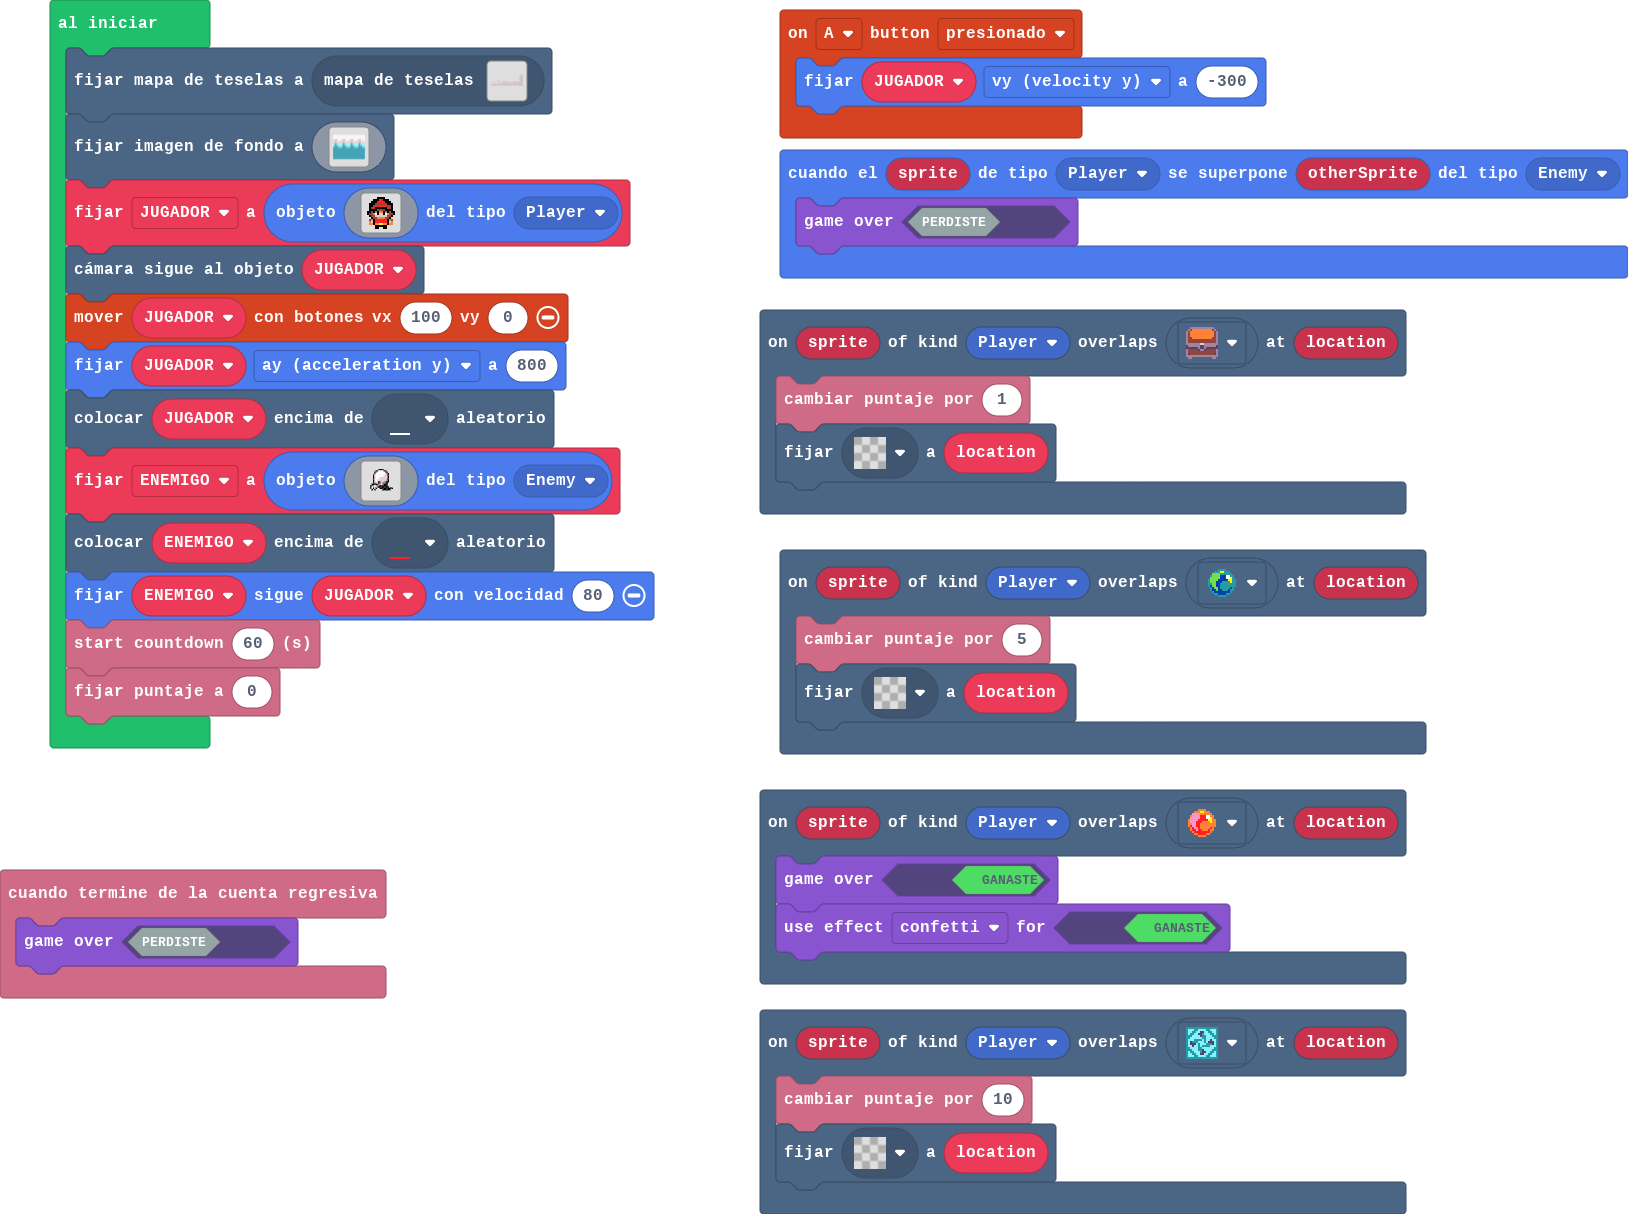
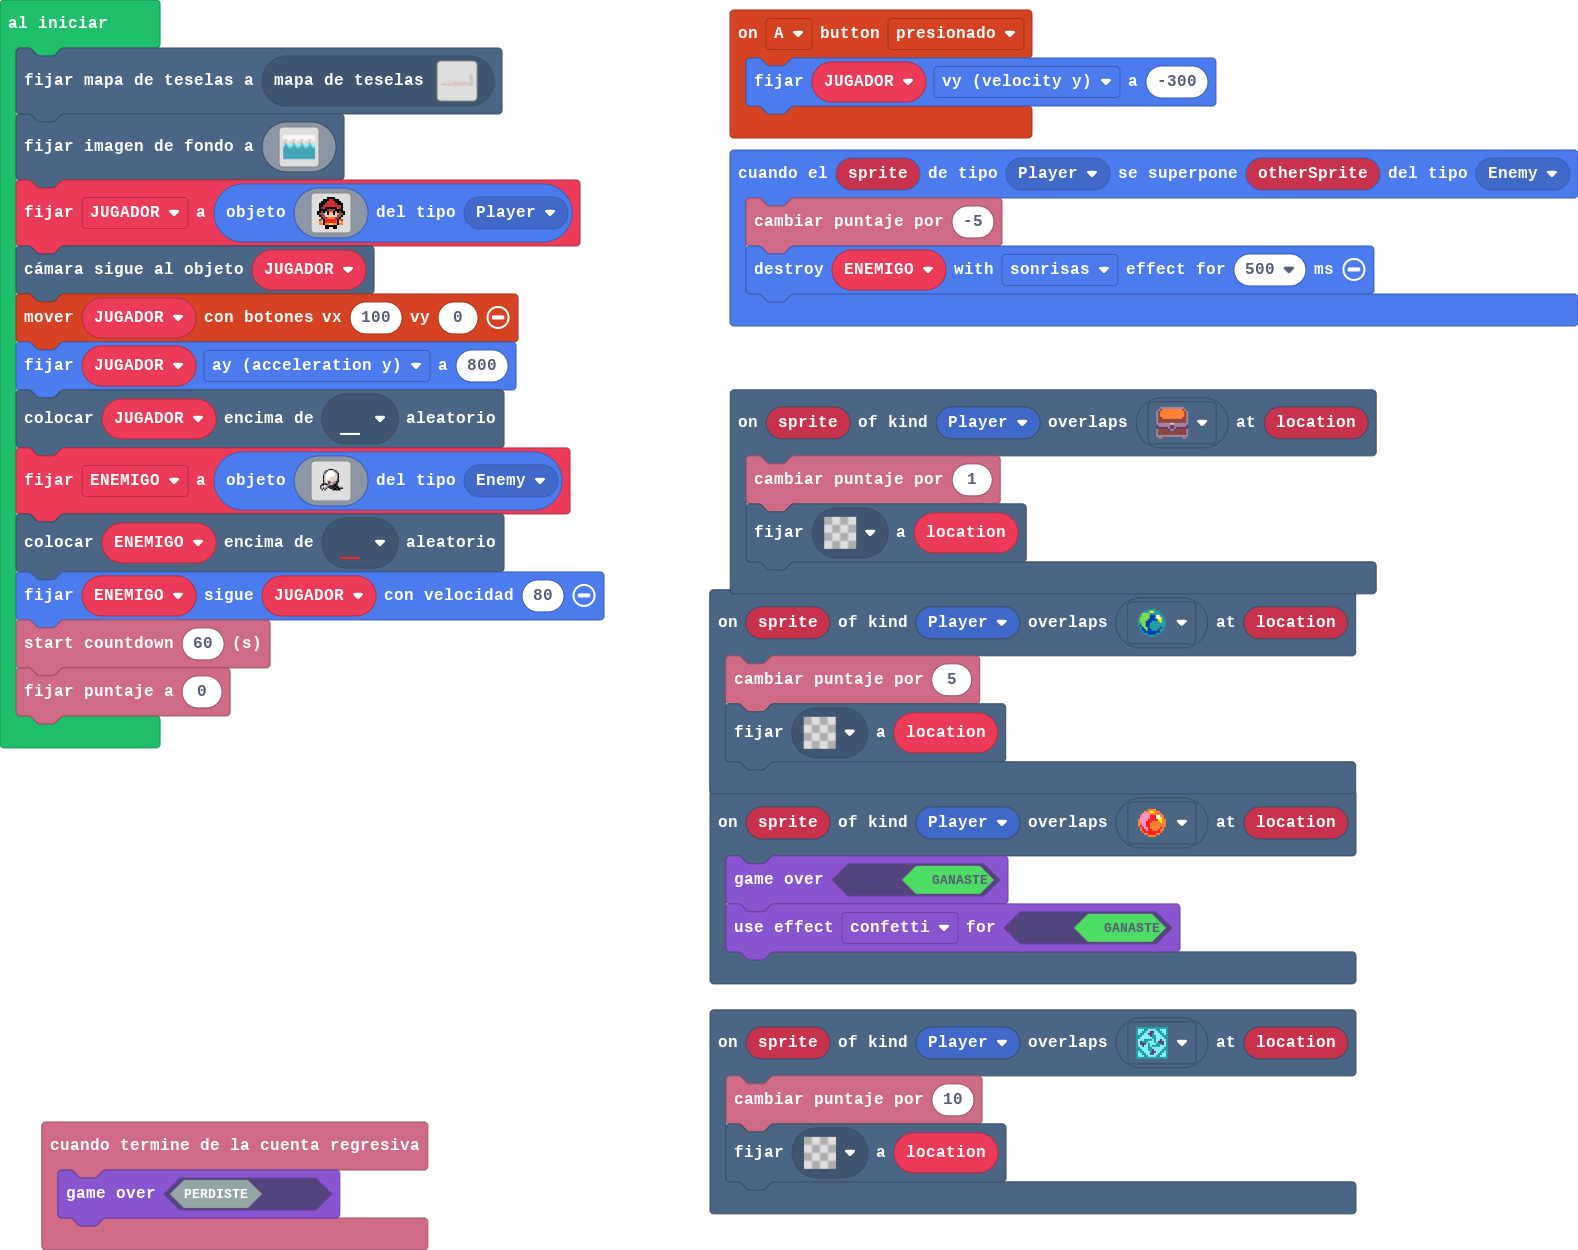
El enemigo ahora en vez de eliminarte te quita 10 puntos y ahora puede aparecer en mas sitios

diff --git a/tilemap.g.ts b/tilemap.g.ts
@@ -12,7 +12,7 @@ namespace myTiles {
     helpers._registerFactory("tilemap", function(name: string) {
         switch(helpers.stringTrim(name)) {
             case "nivel1":
[2 lines of base64/hex data omitted]
 ......................................................................................................................................2222222222222222
 ......................................................................................................................................2222222222222222
 ......................................................................................................................................2222222222222222
@@ -46,12 +46,12 @@ namespace myTiles {
 ....................22.........222222.........................22222222222222........................................................222222222222222222
 ...............................2.......................22222222222222222222222...............................22222222222...........2222222222222222222
 .............22222.............2.......2..........222..2222222222222222222222222222222222...................22222222222222.........2222222222222222222
-.............2.................2...............2.......22222222222222222222222222222222222.................2222222222222222222222222222222222222222222
-.............2.................2..........22...........22222222222222222222222222222222222.......222222...22222222222222222222222222222222222222222222
-.............22222.............2.........222...........22222222222222222222222222222222222.......22222222222222222222222222222222222222222222222222222
-...............................2........2222...........22222222222222222222222222222222222222222222222222222222222222222222222222222222222222222222222
-...................2................22.....2...........22222222222222222222222222222222222222222222222222222222222222222222222222222222222222222222222
-...........................................2...........22222222222222222222222222222222222222222222222222222222222222222222222222222222222222222222222
+.............2.................2...............2.......2222222222.....22222222222222222222.................2222222222222222222222222222222222222222222
+.............2.................2..........22...........222222222......22222222222222222222.......222222...22222222222222222222222222222222222222222222
+.............22222.............2.........222...........222222.....222222222222222222222222.......22222222222222222222222222222222222222222222222222222
+...............................2........2222...........22222......222222222222222222222222222222222222222222222222222222222222222222222222222222222222
+...................2................22.....2..................2222222222222222222222222222222222222222222222222222222222222222222222222222222222222222
+...........................................2.................22222222222222222222222222222222222222222222222222222222222222222222222222222222222222222
 ..................222222222222222222222222222222222222222222222222222222222222222222222222222222222222222222222222222222222222222222222222222222222222
 ...............222222222222222222222222222222222222222222222222222222222222222222222222222222222222222222222222222222222222222222222222222222222222222
 222222222222222222222222222222222222222222222222222222222222222222222222222222222222222222222222222222222222222222222222222222222222222222222222222222

diff --git a/main.ts b/main.ts
@@ -21,8 +21,10 @@ scene.onOverlapTile(SpriteKind.Player, sprites.dungeon.collectibleInsignia, func
     tiles.setTileAt(location, assets.tile`transparency16`)
 })
 sprites.onOverlap(SpriteKind.Player, SpriteKind.Enemy, function (sprite, otherSprite) {
-    game.gameOver(false)
+    info.changeScoreBy(-5)
+    sprites.destroy(ENEMIGO, effects.smiles, 500)
 })
+let ENEMIGO: Sprite = null
 let JUGADOR: Sprite = null
 tiles.setCurrentTilemap(tilemap`nivel1`)
 scene.setBackgroundImage(img`
@@ -169,7 +171,7 @@ scene.cameraFollowSprite(JUGADOR)
 controller.moveSprite(JUGADOR, 100, 0)
 JUGADOR.ay = 800
 tiles.placeOnRandomTile(JUGADOR, assets.tile`myTile`)
-let ENEMIGO = sprites.create(img`
+ENEMIGO = sprites.create(img`
     ........................
     ........................
     ........................
